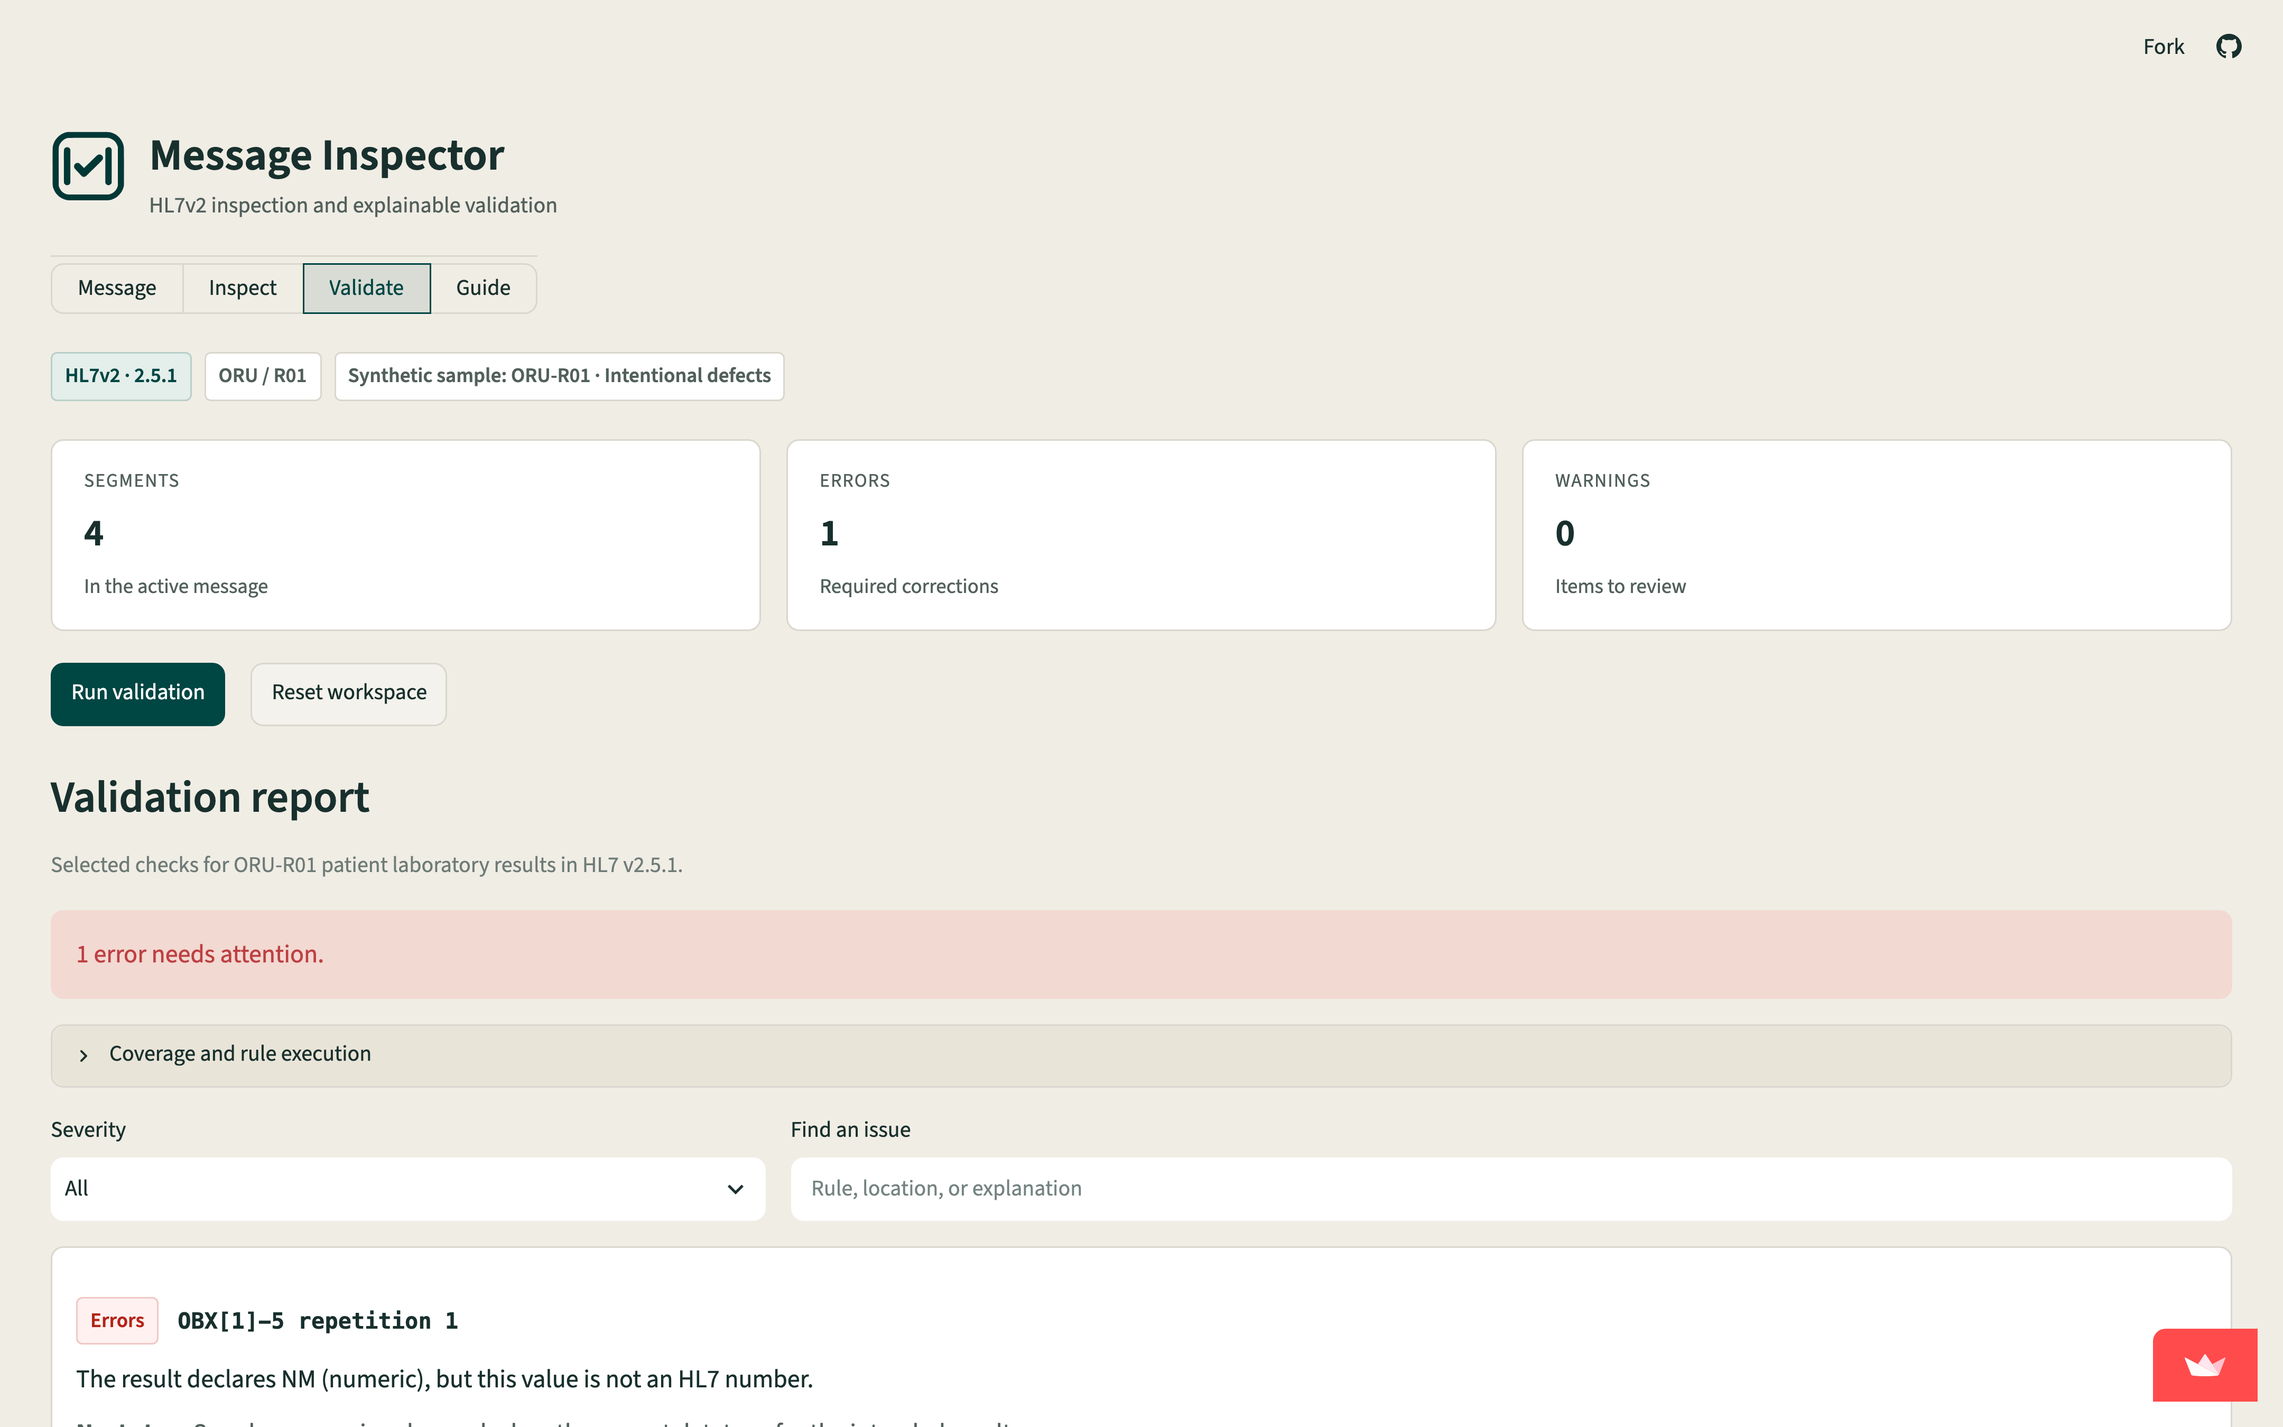
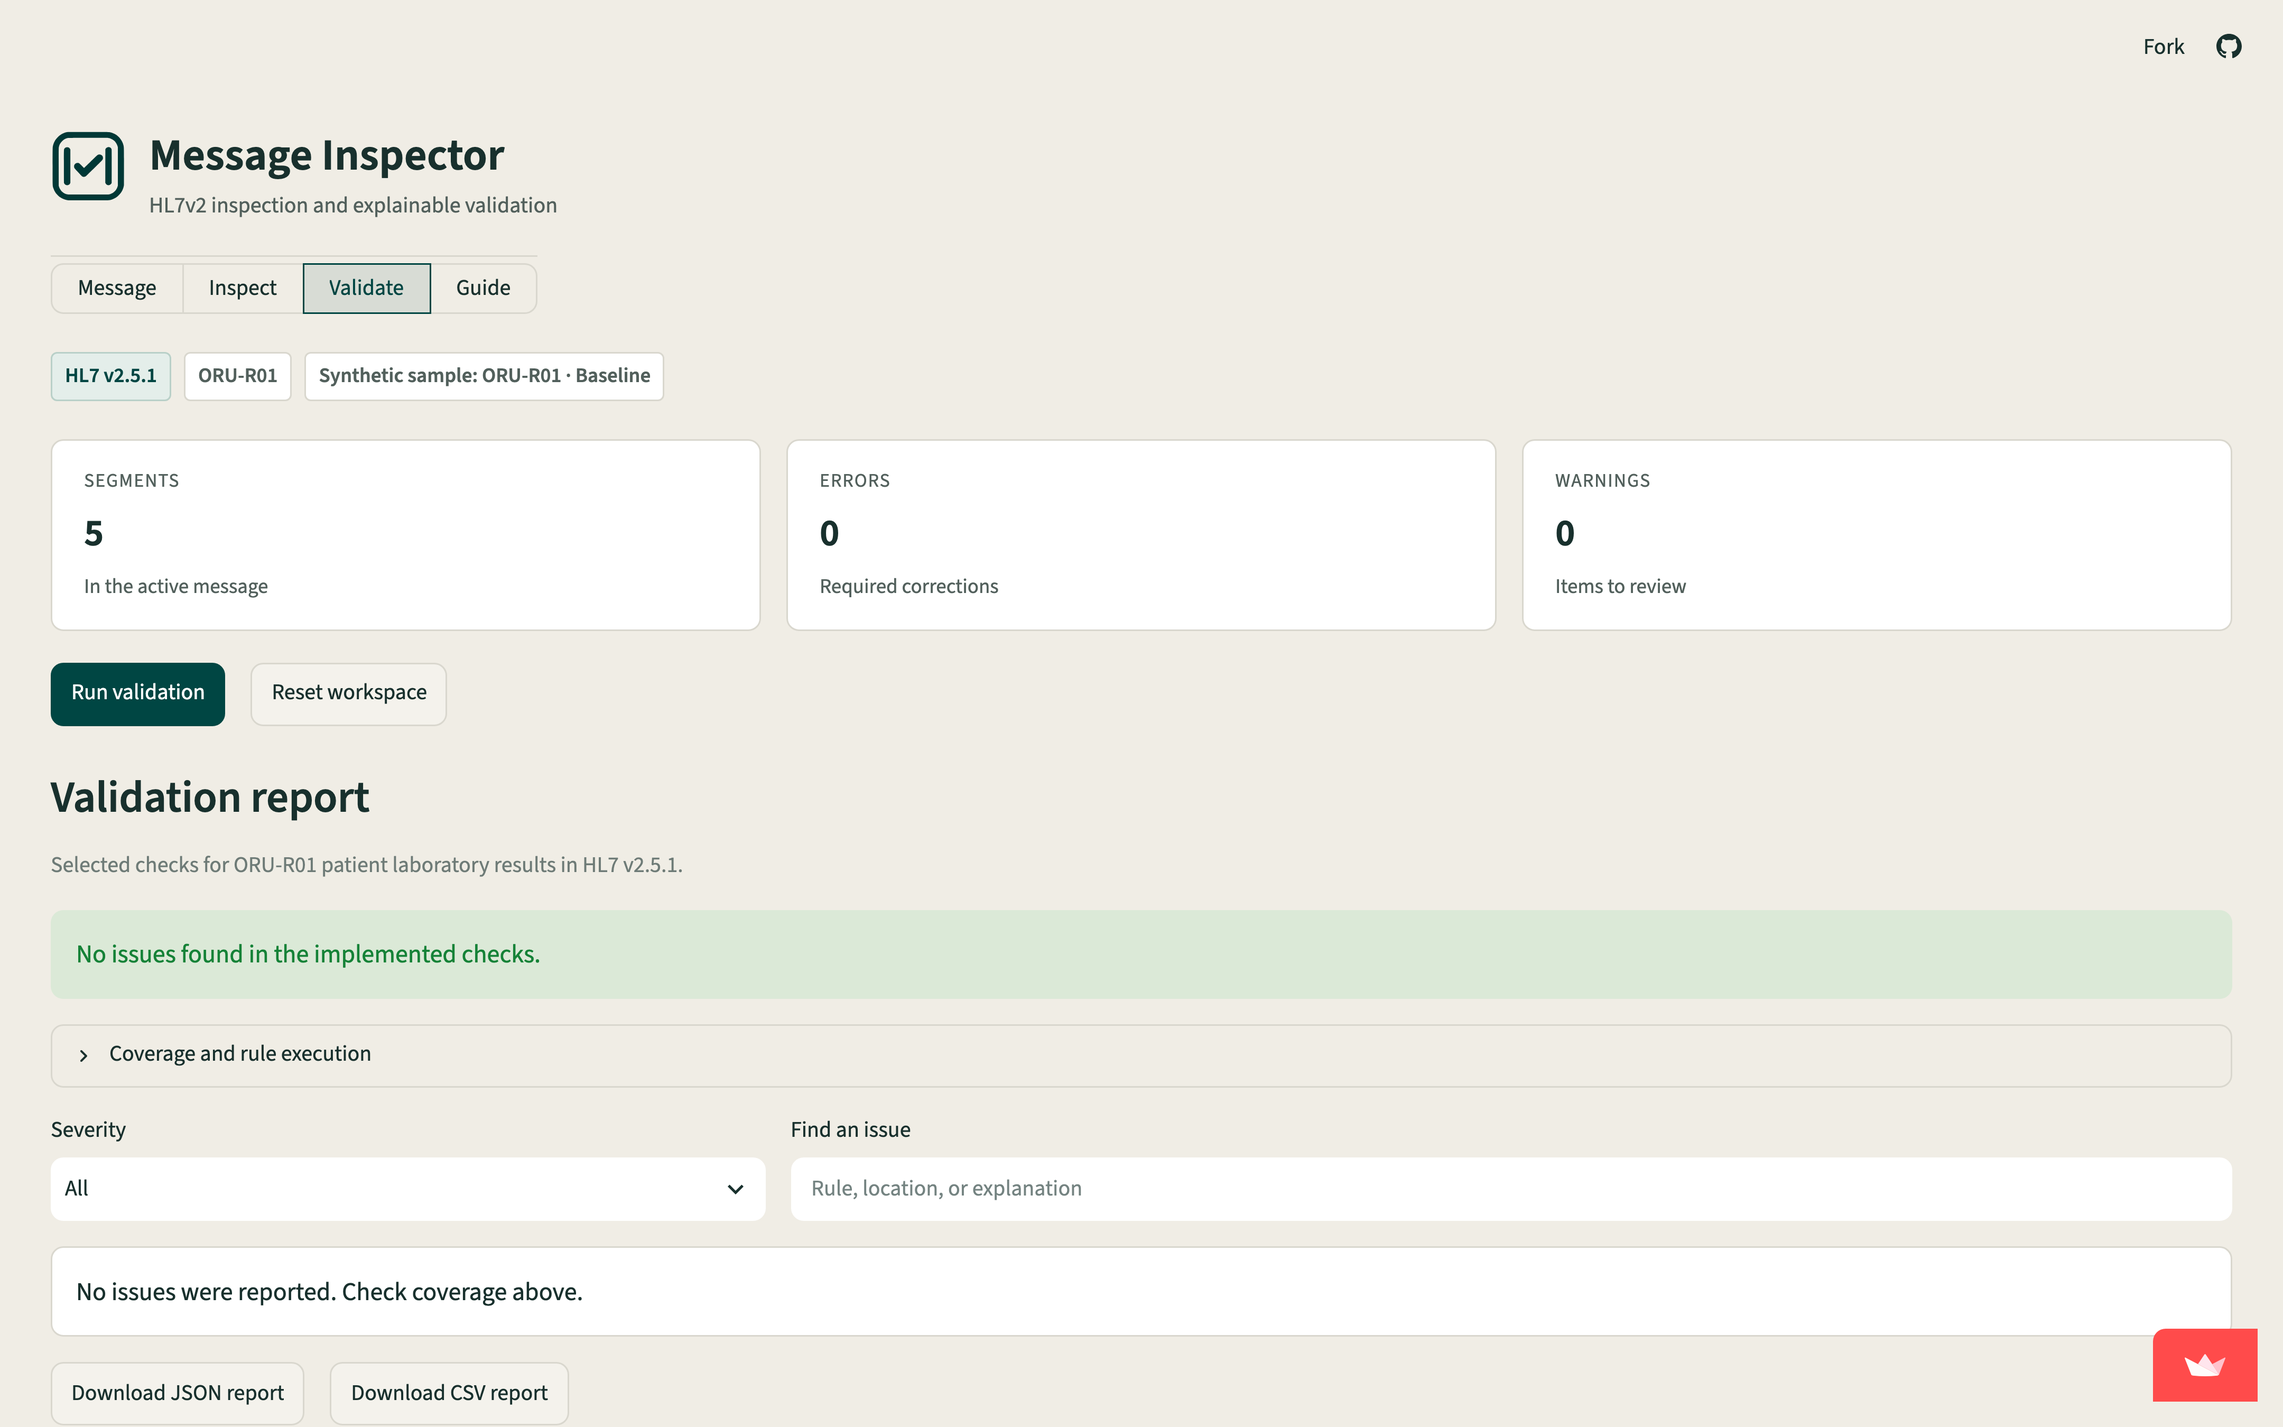
Use canonical message badges and consistent version citations

Changed region(s): [[0.0, 0.9022, 1.0, 1.0], [0.0312, 0.2489, 0.3438, 0.28], [0.0312, 0.6533, 0.2188, 0.6844]]

diff --git a/app.py b/app.py
@@ -96,8 +96,10 @@ view = st.segmented_control(
     wrap=True,
 )
 
-type_label = " / ".join(inspection.message_type[:2]) or "No message type"
-version_label = "HL7v2 · " + (inspection.version or "version not declared")
+type_label = "-".join(inspection.message_type[:2]) or "No message type"
+version_label = (
+    "HL7 v" + inspection.version if inspection.version else "HL7v2 · version not declared"
+)
 st.html(
     f'<div class="status-line"><span class="badge badge-teal">{escape(version_label)}</span>'
     f'<span class="badge">{escape(type_label)}</span><span class="badge">{escape(st.session_state.source)}</span></div>'
@@ -179,6 +181,6 @@ else:
     guide_view()
 
 st.html(
-    '<footer class="footnote">Selected HL7v2 checks · version 2.5.1 · '
+    '<footer class="footnote">Selected checks · HL7 v2.5.1 · '
     "synthetic samples · no clinical interpretation</footer>"
 )

diff --git a/README.md b/README.md
@@ -1,18 +1,61 @@
-# HL7v2 Inspector and Validator
+# HL7v2 Message Inspector and Validator
 
-A focused tool for healthcare integration engineers, interface analysts, and learners practicing HL7v2 troubleshooting. Paste or upload a message, inspect its structure, and read validation issues with locations and practical next steps.
+Inspect HL7v2 messages and diagnose interface defects with field-level explanations.
 
-Try the [live app](https://hl7v2-inspector-validator.streamlit.app/).
+**[Live Demo](https://hl7v2-inspector-validator.streamlit.app/)**
 
-The inspector preserves raw field positions alongside hl7apy parsing. The validator checks three bounded HL7 v2.5.1 profiles and exports structured reports as JSON or CSV.
+An HL7v2 message can parse successfully and still fail in a receiving system. A missing patient identifier, an impossible timestamp, a numeric result containing text, or misplaced order segments can interrupt an interface workflow. This project makes those defects visible and explains what to check next.
+
+Built for healthcare integration engineers, interface analysts, and learners practicing interoperability troubleshooting. The repository includes runnable source, documented rules, synthetic examples, and reproducible evaluation evidence.
 
 <p align="center">
-  <img src="assets/validation-workspace.png" alt="HL7v2 message and validation workspace" width="100%">
+  <img src="assets/validation-workspace.png" alt="HL7v2 message inspection and validation workspace" width="100%">
 </p>
 
-## Run locally
+## What it does
 
-Use Python 3.12. From this repository folder:
+- **Message:** paste one message, upload a UTF-8 .hl7 or .txt file, or load a synthetic sample.
+- **Inspect:** examine the field table and expandable segment, field, repetition, component, and subcomponent hierarchy. Raw positions, empty fields, and explicit-null values are preserved.
+- **Validate:** run 15 rule families covering selected header, patient, timestamp, order, and observation checks. Issues include severity, location, explanation, and a suggested next step.
+- **Guide:** read plain-language explanations of common interface defects and profile requirements.
+- **Reports:** download the complete validation report as JSON or CSV without the raw message. Display filters do not remove issues from exports.
+
+Editing the message invalidates its previous report. Reset workspace clears input and results.
+
+## Supported profiles
+
+Validation covers three bounded HL7 v2.5.1 profiles:
+
+| Profile | Workflow | Required core sequence |
+| --- | --- | --- |
+| ADT-A01 | Admission | MSH, EVN, PID, PV1 |
+| ORM-O01 | Patient laboratory order | MSH, PID, ORC, OBR |
+| ORU-R01 | Patient laboratory result | MSH, PID, OBR, OBX |
+
+Repeated laboratory order and observation groups are supported. These laboratory requirements are project profile decisions, not universal ORM or ORU requirements. The [rule definitions](docs/rules.md) distinguish standard-derived checks, profile requirements, and advisory warnings.
+
+## Validation results
+
+| Check | Recorded result |
+| --- | --- |
+| Expected-versus-observed benchmark | **24 of 24 cases matched** |
+| Automated tests | **73 passing**, including five Streamlit AppTest workflows |
+| Ruff lint and formatting | Clean |
+| mypy | Clean for parser.py, validator.py, app.py, and ui.py |
+
+The benchmark contains three baselines, 15 defect cases, and six legitimate edge cases. Expectations are specified separately from validator output. Defect cases check rule sets, principal locations, and severity; clean cases require complete coverage and no issues.
+
+Read the [evaluation](docs/evaluation.md), inspect the [recorded results](docs/benchmark_results.json), or review the [case definitions](tests/cases.py). These results describe controlled synthetic inputs and do not establish accuracy across hospital traffic or learning gains.
+
+## Tech stack
+
+Python 3.12, Streamlit, hl7apy, and pytest. Ruff and mypy provide linting, formatting, and type checks. Runtime dependencies are pinned to Streamlit 1.65.0 and hl7apy 1.3.5.
+
+The parser combines hl7apy's tolerant parsing with a delimiter-aware raw view. Parsing, validation rules, and presentation are separated so that message behavior can be tested independently of the interface. No database, API key, paid account, or clinical connection is required.
+
+## Quickstart
+
+From this repository folder, using Python 3.12:
 
 ```sh
 python -m venv .venv
@@ -21,51 +64,9 @@ python -m pip install -r requirements.txt
 streamlit run app.py
 ```
 
-On Windows, activate with `.venv\Scripts\activate`. Runtime dependencies are pinned to Streamlit 1.65.0 and hl7apy 1.3.5. No API key, database, paid account, or clinical connection is needed.
+On Windows, activate with `.venv\Scripts\activate`.
 
-## Supported profiles
-
-| Profile | Scenario | Core segment sequence |
-| --- | --- | --- |
-| ADT-A01 | Admission | MSH, EVN, PID, PV1 |
-| ORM-O01 | Patient laboratory order | MSH, PID, ORC, OBR |
-| ORU-R01 | Patient laboratory result | MSH, PID, OBR, OBX |
-
-These are selected checks for specific admission and laboratory scenarios, not complete message specifications. Repeated order and observation groups are supported. Laboratory requirements are not universal ORM or ORU requirements. Other versions and message types remain inspectable where possible, with explicit validation coverage notices.
-
-## Synthetic sample library
-
-All six bundled messages are **synthetic**. There are no real patient records.
-
-| Sample | Intended behavior |
-| --- | --- |
-| ADT admission baseline | Populated patient identifiers, name, event time, and visit |
-| ADT with defects | Missing PID-3 and an impossible event date |
-| ORM laboratory order baseline | Patient and order identifiers in the expected sequence |
-| ORM with defects | OBR placed before its ORC order-control segment |
-| ORU laboratory result baseline | Numeric and text observations |
-| ORU with defects | Text supplied for a numeric observation |
-
-The [sample manifest](samples/manifest.json) declares the expected rule outcomes. Load a sample from the Message view or upload one UTF-8 ER7 file. Editing the input invalidates the previous validation report. Reset clears the active workspace.
-
-## Rule coverage
-
-Fifteen rule families cover the following checks:
-
-| Rules | Coverage |
-| --- | --- |
-| R01-R06 | Header placement, delimiters, message identity, version, and processing metadata |
-| R07-R08 | Required core segments and segment-group order |
-| R09-R11 | Required field values, patient identifiers, and names |
-| R12 | Selected date and time fields |
-| R13 | Laboratory order identifiers |
-| R14-R15 | Observation datatype/value consistency and result status |
-
-[Rule definitions and sources](docs/rules.md) distinguish standard-derived checks, profile requirements, and advisory warnings. Datatype checks cover selected NM, ST, TX, CE, and CWE observations. Date/time checks accept reduced precision, fractional seconds, and numeric timezones.
-
-Inspection uses hl7apy's tolerant parser without group construction, plus a delimiter-aware raw view preserving empty, explicit-null, repeated, and trailing fields. Field names and datatypes come from hl7apy's version definitions. The raw view remains available after recoverable parsing failures. Parsing success is separate from validation success.
-
-## Tests and evaluation
+To run the checks and benchmark:
 
 ```sh
 python -m pip install -r requirements-dev.txt
@@ -76,38 +77,46 @@ mypy parser.py validator.py app.py ui.py
 python scripts/evaluate.py
 ```
 
-The suite contains 73 tests, including five Streamlit AppTest workflows. The expected-versus-observed benchmark contains 24 authored cases: three baselines, one defect per rule family, and six legitimate edge cases. Expectations are specified separately from validator output. All 24 cases matched their expectations in the recorded run.
+## Synthetic data
 
-The [evaluation](docs/evaluation.md), [observed results](docs/benchmark_results.json), and [case definitions](tests/cases.py) make the evidence reproducible. These results describe controlled synthetic inputs; they do not establish accuracy on hospital traffic or learning gains.
+**All bundled messages and benchmark inputs are synthetic. No patient data or employer interface logs are included.**
 
-## Limitations and data handling
+The six-message library contains a baseline and an intentionally broken example for each profile. The broken ADT demonstrates a missing identifier and impossible date; the broken ORM demonstrates invalid order grouping; the broken ORU supplies text for a numeric observation. The [sample manifest](samples/manifest.json) declares the expected rule outcomes.
 
-The tool does not certify full HL7 conformance, interpret clinical results, validate terminology membership, or replace a receiving system's specification. Validation covers selected HL7 v2.5.1 checks for the profiles above. Unsupported elements receive coverage notices; a clean limited report is not presented as a pass.
+## Scope and limitations
 
-Input limits are 5 MB, 1,000 segments, and 20,000 separator characters. One unframed ER7 message is accepted at a time. Batch and MLLP framing are unsupported. Escapes remain encoded, and validation does not inspect every HL7 field.
+This is a troubleshooting and portfolio tool. It does not certify full HL7 conformance, interpret clinical results, validate terminology membership, or replace a receiving system's specification.
 
-Use synthetic or de-identified data. Streamlit processes input on its server. The application holds it in the active session and does not deliberately persist or log messages or use a shared message cache. Reset clears the active workspace and report. Reports omit the raw message; locations and coverage notes still describe the input, so review exports before sharing. Hosting providers have their own infrastructure and retention policies.
+- Input is limited to one unframed ER7 message within 5 MB, 1,000 segments, and 20,000 separator characters. Batch and MLLP framing are unsupported.
+- Selected NM, ST, TX, CE, and CWE values are checked. Other versions, message types, additional segments, and unimplemented datatypes receive explicit coverage notices where inspection is possible.
+- Date/time validation covers documented fields and permits legitimate reduced precision. Escapes remain encoded, and not every HL7 field is validated.
+- A clean report means only that the implemented checks found no issues within their stated coverage. The small authored benchmark benefits from independent review and unseen test messages.
+- This application processes HL7v2 messages. It does not implement a FHIR API or an interface transport engine.
+
+Use synthetic or de-identified input. Streamlit processes it on its server; the application holds it in the active session and does not deliberately persist or log messages or use a shared message cache. Reports omit the raw message, but locations and coverage notes can describe input. Review exports before sharing. Hosting providers have their own infrastructure and retention policies.
 
 ## Repository structure
 
 ```text
 app.py                  Streamlit session and navigation
-parser.py               hl7apy integration and preserved raw inspection
+parser.py               hl7apy integration and raw inspection
 validator.py            Profiles, rules, and report serialization
-ui.py / styles.css      Presentation helpers and visual styling
-samples/                Six synthetic fixtures and expected outcomes
-tests/                  Parser, validator, and Streamlit workflow checks
+ui.py / styles.css      Presentation helpers and styling
+samples/                Six synthetic messages and manifest
+tests/                  Parser, validator, and UI workflow tests
 scripts/evaluate.py     Reproducible benchmark runner
-docs/                   Rule sources and evaluation evidence
-assets/                 SVG brand mark and README screenshot
+docs/                   Rule definitions and evaluation evidence
+assets/                 Brand mark and workspace screenshot
 ```
 
 ## Deployment
 
-Deploy the `main` branch and `app.py` using [Streamlit Community Cloud](https://share.streamlit.io/). Select Python 3.12 in advanced settings. `requirements.txt` contains the runtime dependencies; development requirements are not needed on the server. No secrets are required. [Official deployment instructions](https://docs.streamlit.io/deploy/streamlit-community-cloud/deploy-your-app/deploy) describe the account and GitHub connection steps. The public deployment was verified on October 9, 2026 using synthetic inputs, including uploads, inspection, validation, and JSON/CSV downloads.
+Deploy the main branch and app.py using [Streamlit Community Cloud](https://share.streamlit.io/). Select Python 3.12 in advanced settings and install requirements.txt. No secrets are required. See the [official deployment instructions](https://docs.streamlit.io/deploy/streamlit-community-cloud/deploy-your-app/deploy).
 
 ## AI assistance disclosure
 
 I defined the project concept, requirements, and validation rule priorities based on my healthcare integration experience. AI coding assistants helped with planning, design exploration, implementation, debugging, testing, and documentation. I take responsibility for reviewing the project, checking its claims, and deciding what to submit.
+
+**Author:** [Naveen Madhav](https://www.linkedin.com/in/naveenmadhav/)
 
 This project is [MIT licensed](LICENSE).
